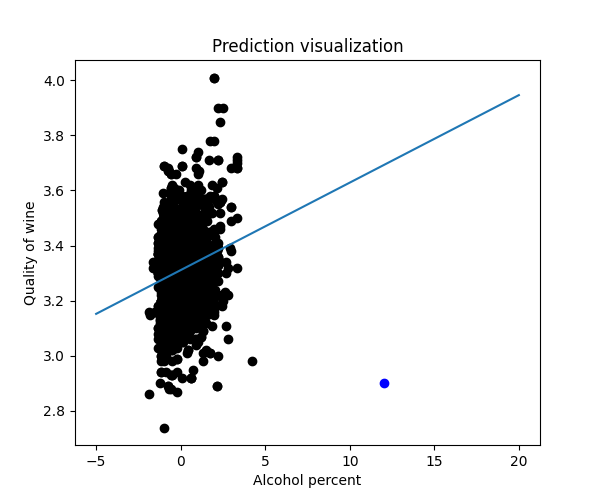
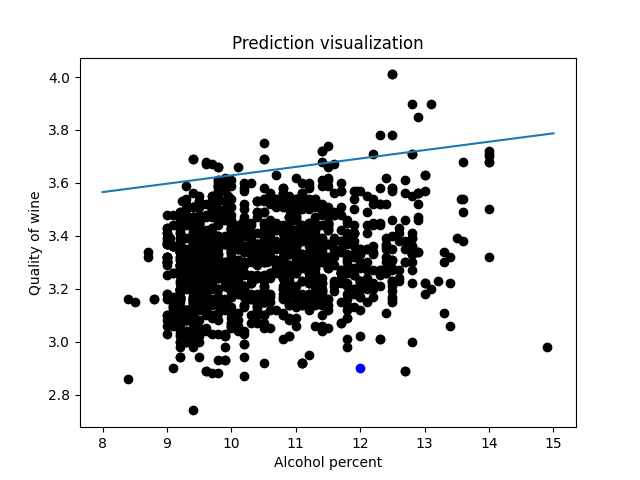
edit wine page

diff --git a/templates/vina.html b/templates/vina.html
@@ -5,7 +5,7 @@ endblock %} {% block content %}
 <style type="text/css">
   .img-container {
     text-align: center;
-    margin-top: 1cm;
+    margin-top: -1cm;
     height: 60%;
   }
 
@@ -57,6 +57,15 @@ endblock %} {% block content %}
     height: 4cm;
     width: 3cm;
     object-fit: cover;
+  }
+
+  img {
+    border-radius: 20px;
+  }
+
+  h1 {
+    margin-top: 1cm;
+    text-align: left;
   }
   .img:hover {
     background-color: yellow;
@@ -233,7 +242,7 @@ endblock %} {% block content %}
       >
         <figure>
           <img
-            src="/static/images/vino.jpg"
+            src="/static/images/wine_1.png"
             alt="Chart"
             width="180"
             height="150"
@@ -249,7 +258,7 @@ endblock %} {% block content %}
       >
         <figure>
           <img
-            src="/static/images/vino_2.jpg"
+            src="/static/images/wine_2.png"
             alt="Chart"
             width="180"
             height="150"
@@ -260,6 +269,7 @@ endblock %} {% block content %}
   </div>
 
   <div class="col-md-8 text-center">
+    <h1>{{text}}</h1>
     {% if image %}
     <div class="img-container">
       <div class="grid-container-3">

diff --git a/templates/table.html b/templates/table.html
@@ -70,6 +70,33 @@
         >
         <div class="button-font">{{link5 | tocka | title }}</div></a
         >
+        {% else %} {% endif %} {% if link6 %}
+        <a
+          href="{{ url_for(link6, _external=True) }}"
+          class="btn btn-primary btn-lg"
+          role="button"
+          aria-disabled="true"
+        >
+        <div class="button-font">{{link6 | tocka | title }}</div></a
+        >
+        {% else %} {% endif %} {% if link7 %}
+        <a
+          href="{{ url_for(link7, _external=True) }}"
+          class="btn btn-primary btn-lg"
+          role="button"
+          aria-disabled="true"
+        >
+        <div class="button-font">{{link7 | tocka | title }}</div></a
+        >
+        {% else %} {% endif %} {% if link8 %}
+        <a
+          href="{{ url_for(link8, _external=True) }}"
+          class="btn btn-primary btn-lg"
+          role="button"
+          aria-disabled="true"
+        >
+        <div class="button-font">{{link8 | tocka | title }}</div></a
+        >
         {% else %} {% endif %}
       </div>
     </div>

diff --git a/templates/info.html b/templates/info.html
@@ -91,6 +91,24 @@
         >
           <div class="button-font">{{link6 | tocka | title }}</div></a
         >
+        {% else %} {% endif %} {% if link7 %}
+        <a
+          href="{{ url_for(link7, _external=True) }}"
+          class="btn btn-primary btn-lg"
+          role="button"
+          aria-disabled="true"
+        >
+          <div class="button-font">{{link7 | tocka | title }}</div></a
+        >
+        {% else %} {% endif %} {% if link8 %}
+        <a
+          href="{{ url_for(link8, _external=True) }}"
+          class="btn btn-primary btn-lg"
+          role="button"
+          aria-disabled="true"
+        >
+          <div class="button-font">{{link8 | tocka | title }}</div></a
+        >
         {% else %} {% endif %}
       </div>
     </div>

diff --git a/wine_quality.py b/wine_quality.py
@@ -52,6 +52,8 @@ def wine_quality():
         link4=sp+'model3',
         link5=sp+'model4',
         link6=sp+'model5',
+        link7=sp+'good',
+        link8=sp+'bad',
         name='wine_quality_page.'+name,
         image=image
     )
@@ -103,6 +105,8 @@ def model1():
         link4=sp+'model3',
         link5=sp+'model4',
         link6=sp+'model5',
+        link7=sp+'good',
+        link8=sp+'bad',
         name='wine_quality_page.'+name,
         # image=image
     )
@@ -159,6 +163,8 @@ def model2():
         link4=sp+'model3',
         link5=sp+'model4',
         link6=sp+'model5',
+        link7=sp+'good',
+        link8=sp+'bad',
         name='wine_quality_page.'+name,
     )
 
@@ -209,6 +215,8 @@ def model3():
         link4=sp+'model3',
         link5=sp+'model4',
         link6=sp+'model5',
+        link7=sp+'good',
+        link8=sp+'bad',
         name='wine_quality_page.'+name,
     )
 
@@ -259,6 +267,8 @@ def model4():
         link4=sp+'model3',
         link5=sp+'model4',
         link6=sp+'model5',
+        link7=sp+'good',
+        link8=sp+'bad',
         name='wine_quality_page.'+name,
     )
 
@@ -319,6 +329,8 @@ def model5():
         link4=sp+'model3',
         link5=sp+'model4',
         link6=sp+'model5',
+        link7=sp+'good',
+        link8=sp+'bad',
         name='wine_quality_page.'+name,
     )
 
@@ -349,9 +361,14 @@ def good():
         'table.html',
         tables=json_list,
         title='describe',
-        link1='dataset',
-        link2='describe',
-        link3='shape',
+        link1=sp+'wine_quality',
+        link2=sp+'model1',
+        link3=sp+'model2',
+        link4=sp+'model3',
+        link5=sp+'model4',
+        link6=sp+'model5',
+        link7=sp+'good',
+        link8=sp+'bad',
         switch=1
     )
 
@@ -382,9 +399,14 @@ def bad():
         'table.html',
         tables=json_list,
         title='describe',
-        link1='dataset',
-        link2='describe',
-        link3='shape',
+        link1=sp+'wine_quality',
+        link2=sp+'model1',
+        link3=sp+'model2',
+        link4=sp+'model3',
+        link5=sp+'model4',
+        link6=sp+'model5',
+        link7=sp+'good',
+        link8=sp+'bad',
         switch=1
     )
 
@@ -392,12 +414,6 @@ def bad():
 @wine_quality_page.route('/quality8')
 def quality8():
     df = data_read()
-
-    # Create Classification version of target variable
-    #df['goodquality'] = [1 if x >= 7 else 0 for x in df['quality']]
-    # Separate feature variables and target variable
-    #X = df.drop(['quality', 'goodquality'], axis=1)
-    #y = df['goodquality']
 
     # Filtering df for only good quality
     df_temp = df[df['quality'] == 8]

diff --git a/vina.py b/vina.py
@@ -50,42 +50,44 @@ lr.fit(x_poly, y)
 y_predict = lr.predict(x_poly)
 
 
-@vina_page.route('/posip')
-def posip():
+@vina_page.route('/vino_1')
+def vino_1():
 
-    pic_lin = 'static/images/lin_posip.png'
-    pic_pol = 'static/images/pol_posip.png'
+    pic_lin = 'static/images/lin_vino_1.png'
+    pic_pol = 'static/images/pol_vino_1.png'
 
-    image_lin = handle_image_reg_lin(
+    image_lin = handle_image_reg_lin_not_scaled(
         x_scaled, x, y, theta[0], theta[1], pic_lin, i[0], j[0])
     image_pol = handle_image_reg_pol(
         x, y, y_predict, lr, min_deg, pic_pol, i[0], j[0])
 
     return render_template(
         'vina.html',
-        link1='vina_page.'+'posip',
-        link2='vina_page.'+'malvazija',
+        link1='vina_page.'+'vino_1',
+        link2='vina_page.'+'vino_2',
         image=image_lin,
-        image2=image_pol
+        image2=image_pol,
+        text='Vino 1, Alkohol: 13%, pH: 3,24'
     )
 
 
-@vina_page.route('/malvazija')
-def malvazija():
+@vina_page.route('/vino_2')
+def vino_2():
 
-    pic_lin = 'static/images/lin_malvazija.png'
-    pic_pol = 'static/images/pol_malvazija.png'
+    pic_lin = 'static/images/lin_vino_2.png'
+    pic_pol = 'static/images/pol_vino_2.png'
 
-    image_lin = handle_image_reg_lin(
+    image_lin = handle_image_reg_lin_not_scaled(
         x_scaled, x, y, theta[0], theta[1], pic_lin, i[1], j[1])
     image_pol = handle_image_reg_pol(
         x, y, y_predict, lr, min_deg, pic_pol, i[1], j[1])
 
     return render_template(
         'vina.html',
-        link1='vina_page.'+'posip',
-        link2='vina_page.'+'malvazija',
+        link1='vina_page.'+'vino_1',
+        link2='vina_page.'+'vino_2',
         image=image_lin,
-        image2=image_pol
+        image2=image_pol,
+        text='Vino 1, Alkohol: 12%, pH: 2,9'
 
     )

diff --git a/reg_lin_methods.py b/reg_lin_methods.py
@@ -102,3 +102,32 @@ def handle_image_reg_lin(x_scaled, x, y, theta_0, theta_1, pic, i, j):
         plt.cla()
         plt.close()
         return image
+
+# reg_lin_izgled_regresije
+
+
+def handle_image_reg_lin_not_scaled(x_scaled, x, y, theta_0, theta_1, pic, i, j):
+
+    file_exists = os.path.exists(pic)
+
+    if file_exists:
+        image = os.path.join(pic)
+        return image
+    else:
+        #plt.figure(figsize=(6, 5))
+        plt.scatter(x, y, color='black')
+        #plt.scatter(x, y, color='red')
+        plt.scatter(i, j, color='blue')
+        x = np.linspace(9, 15, 1000)
+        y = theta_1 * x + theta_0
+
+        plt.title('Prediction visualization')
+        plt.xlabel('Alcohol percent')
+        plt.ylabel('Quality of wine')
+
+        plt.plot(x, y)
+        plt.savefig(pic)
+        plt.clf()
+        plt.cla()
+        plt.close()
+        return image

diff --git a/reg_pol_methods.py b/reg_pol_methods.py
@@ -95,6 +95,7 @@ def handle_image_reg_pol(x, y, y_pred, lin_reg, degree, pic, i, j):
         X_grid = X_grid.reshape((len(X_grid), 1))
         plt.scatter(x, y, color='red')
         plt.scatter(x, y_pred, color='green')
+        # za pojedinačno vino
         if type(i) == np.int64:
             plt.scatter(i, j, color='blue')
 
